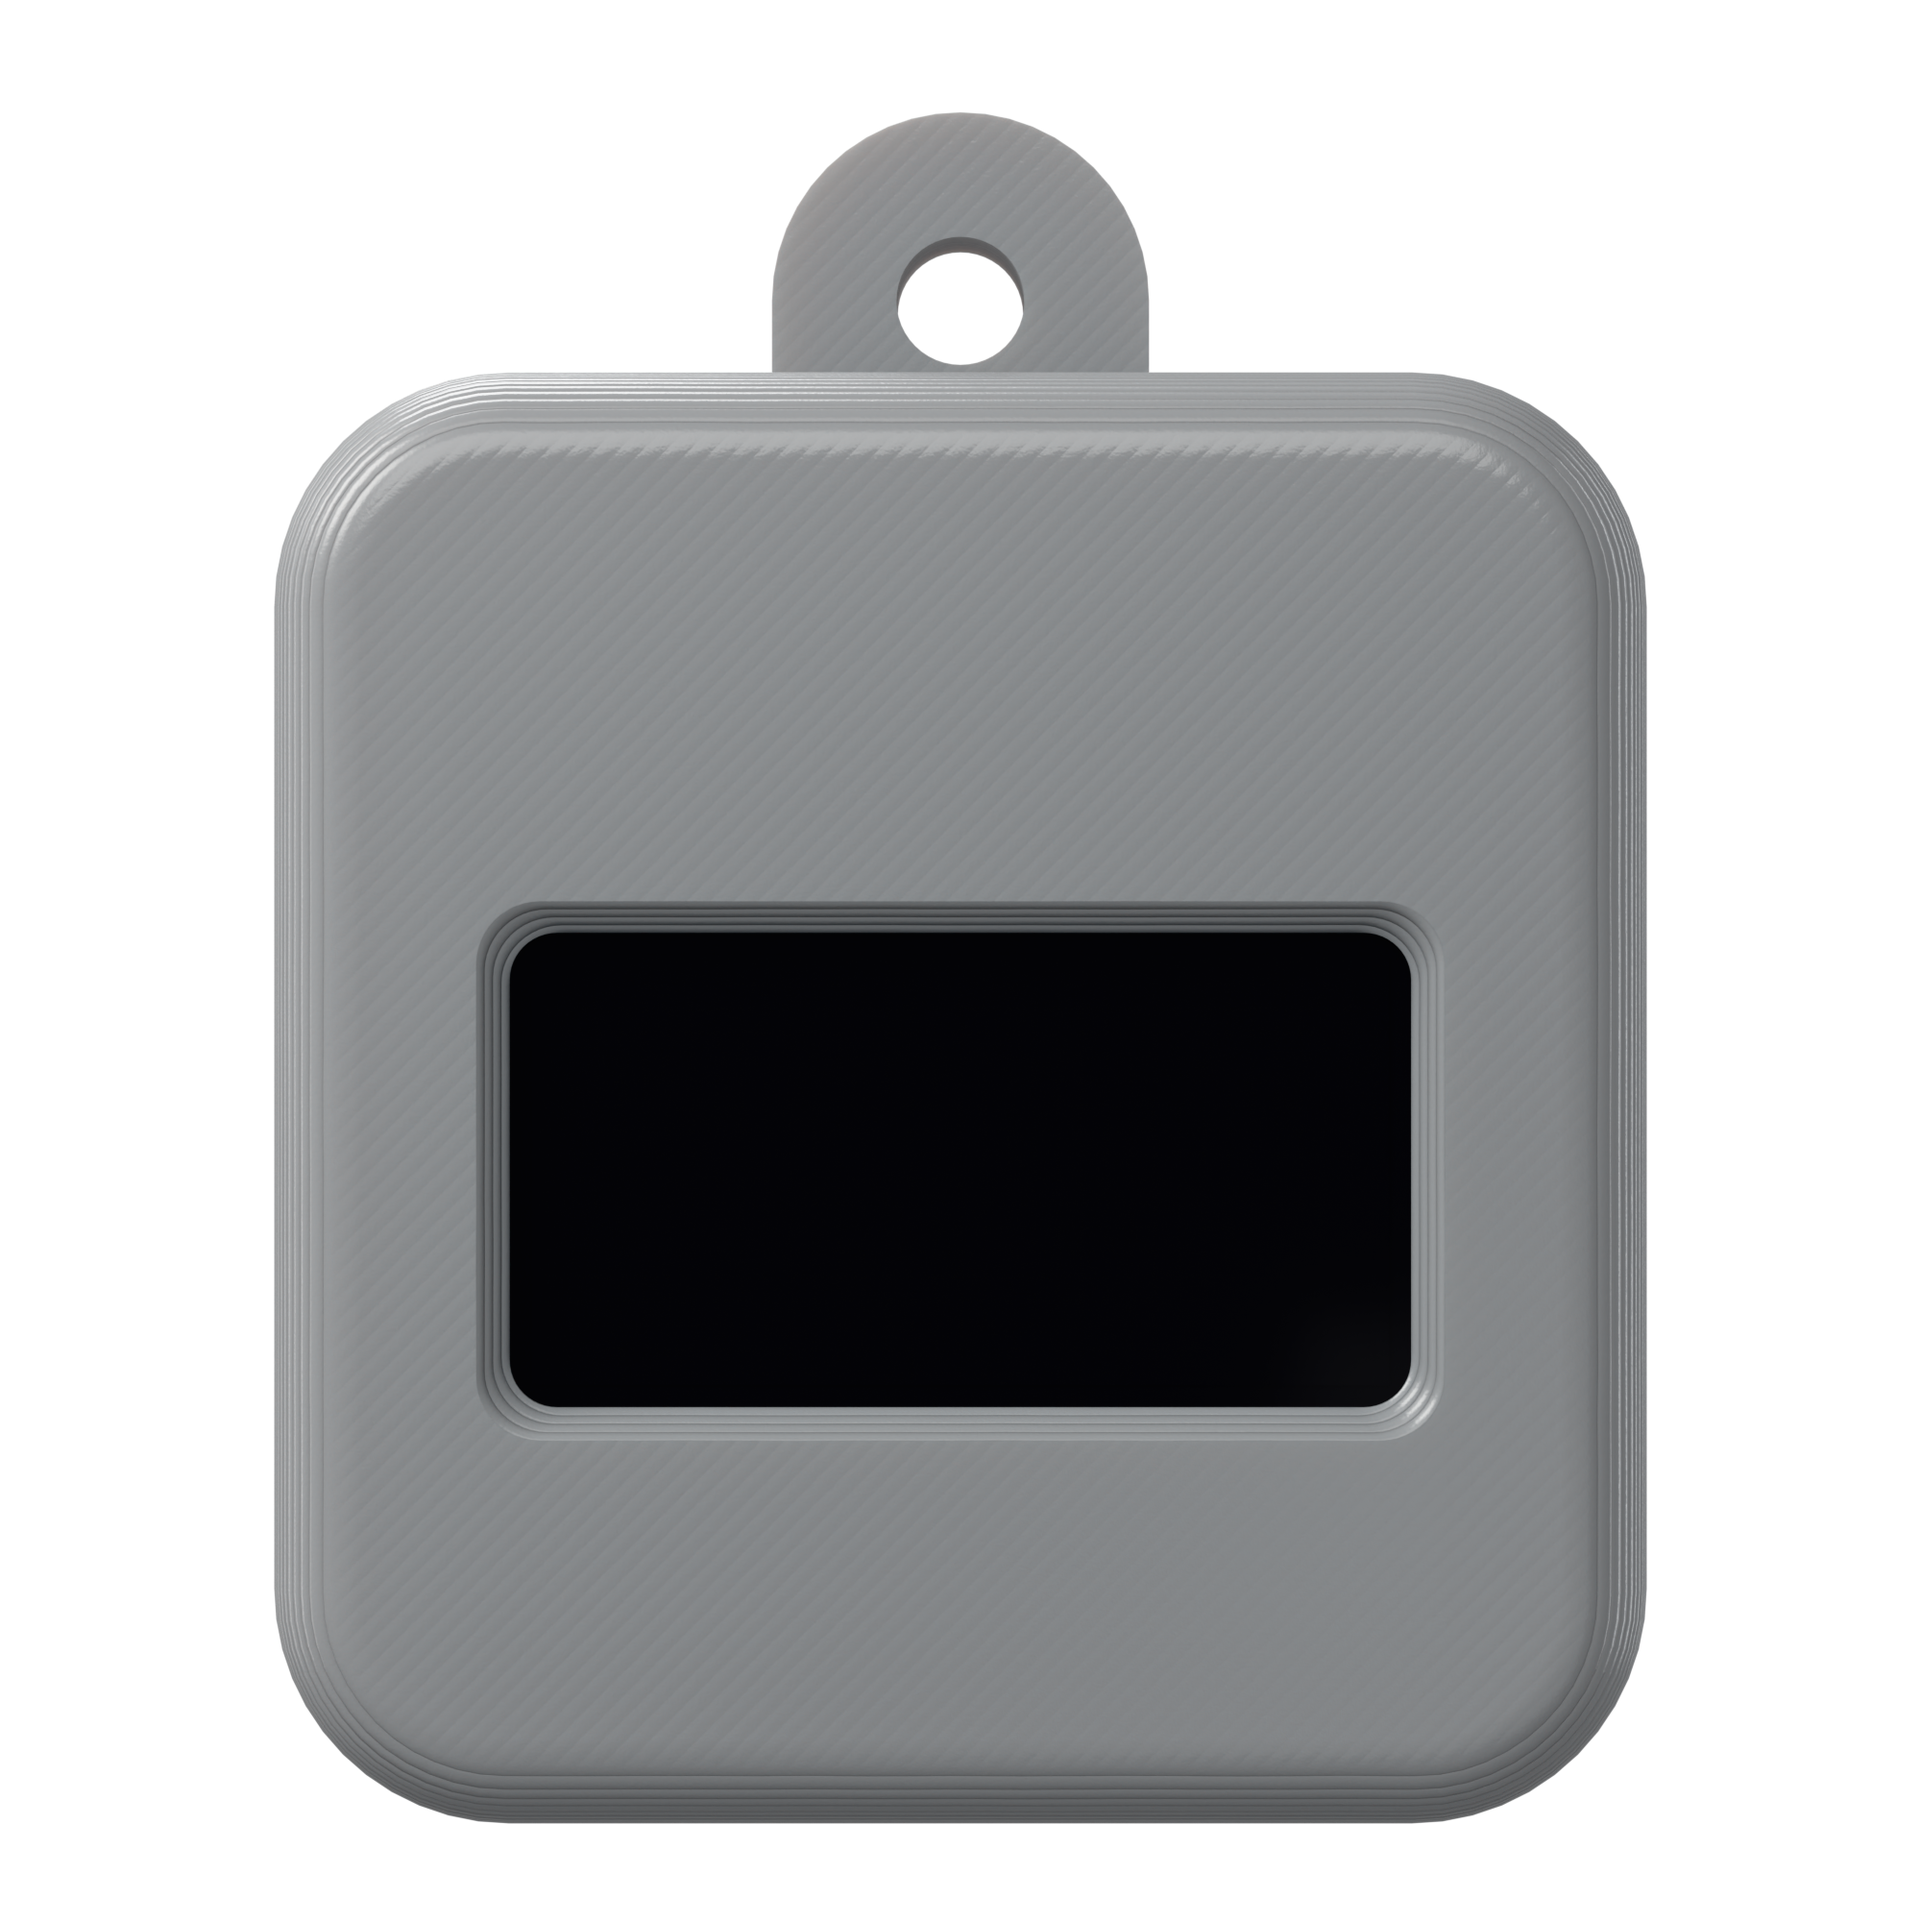
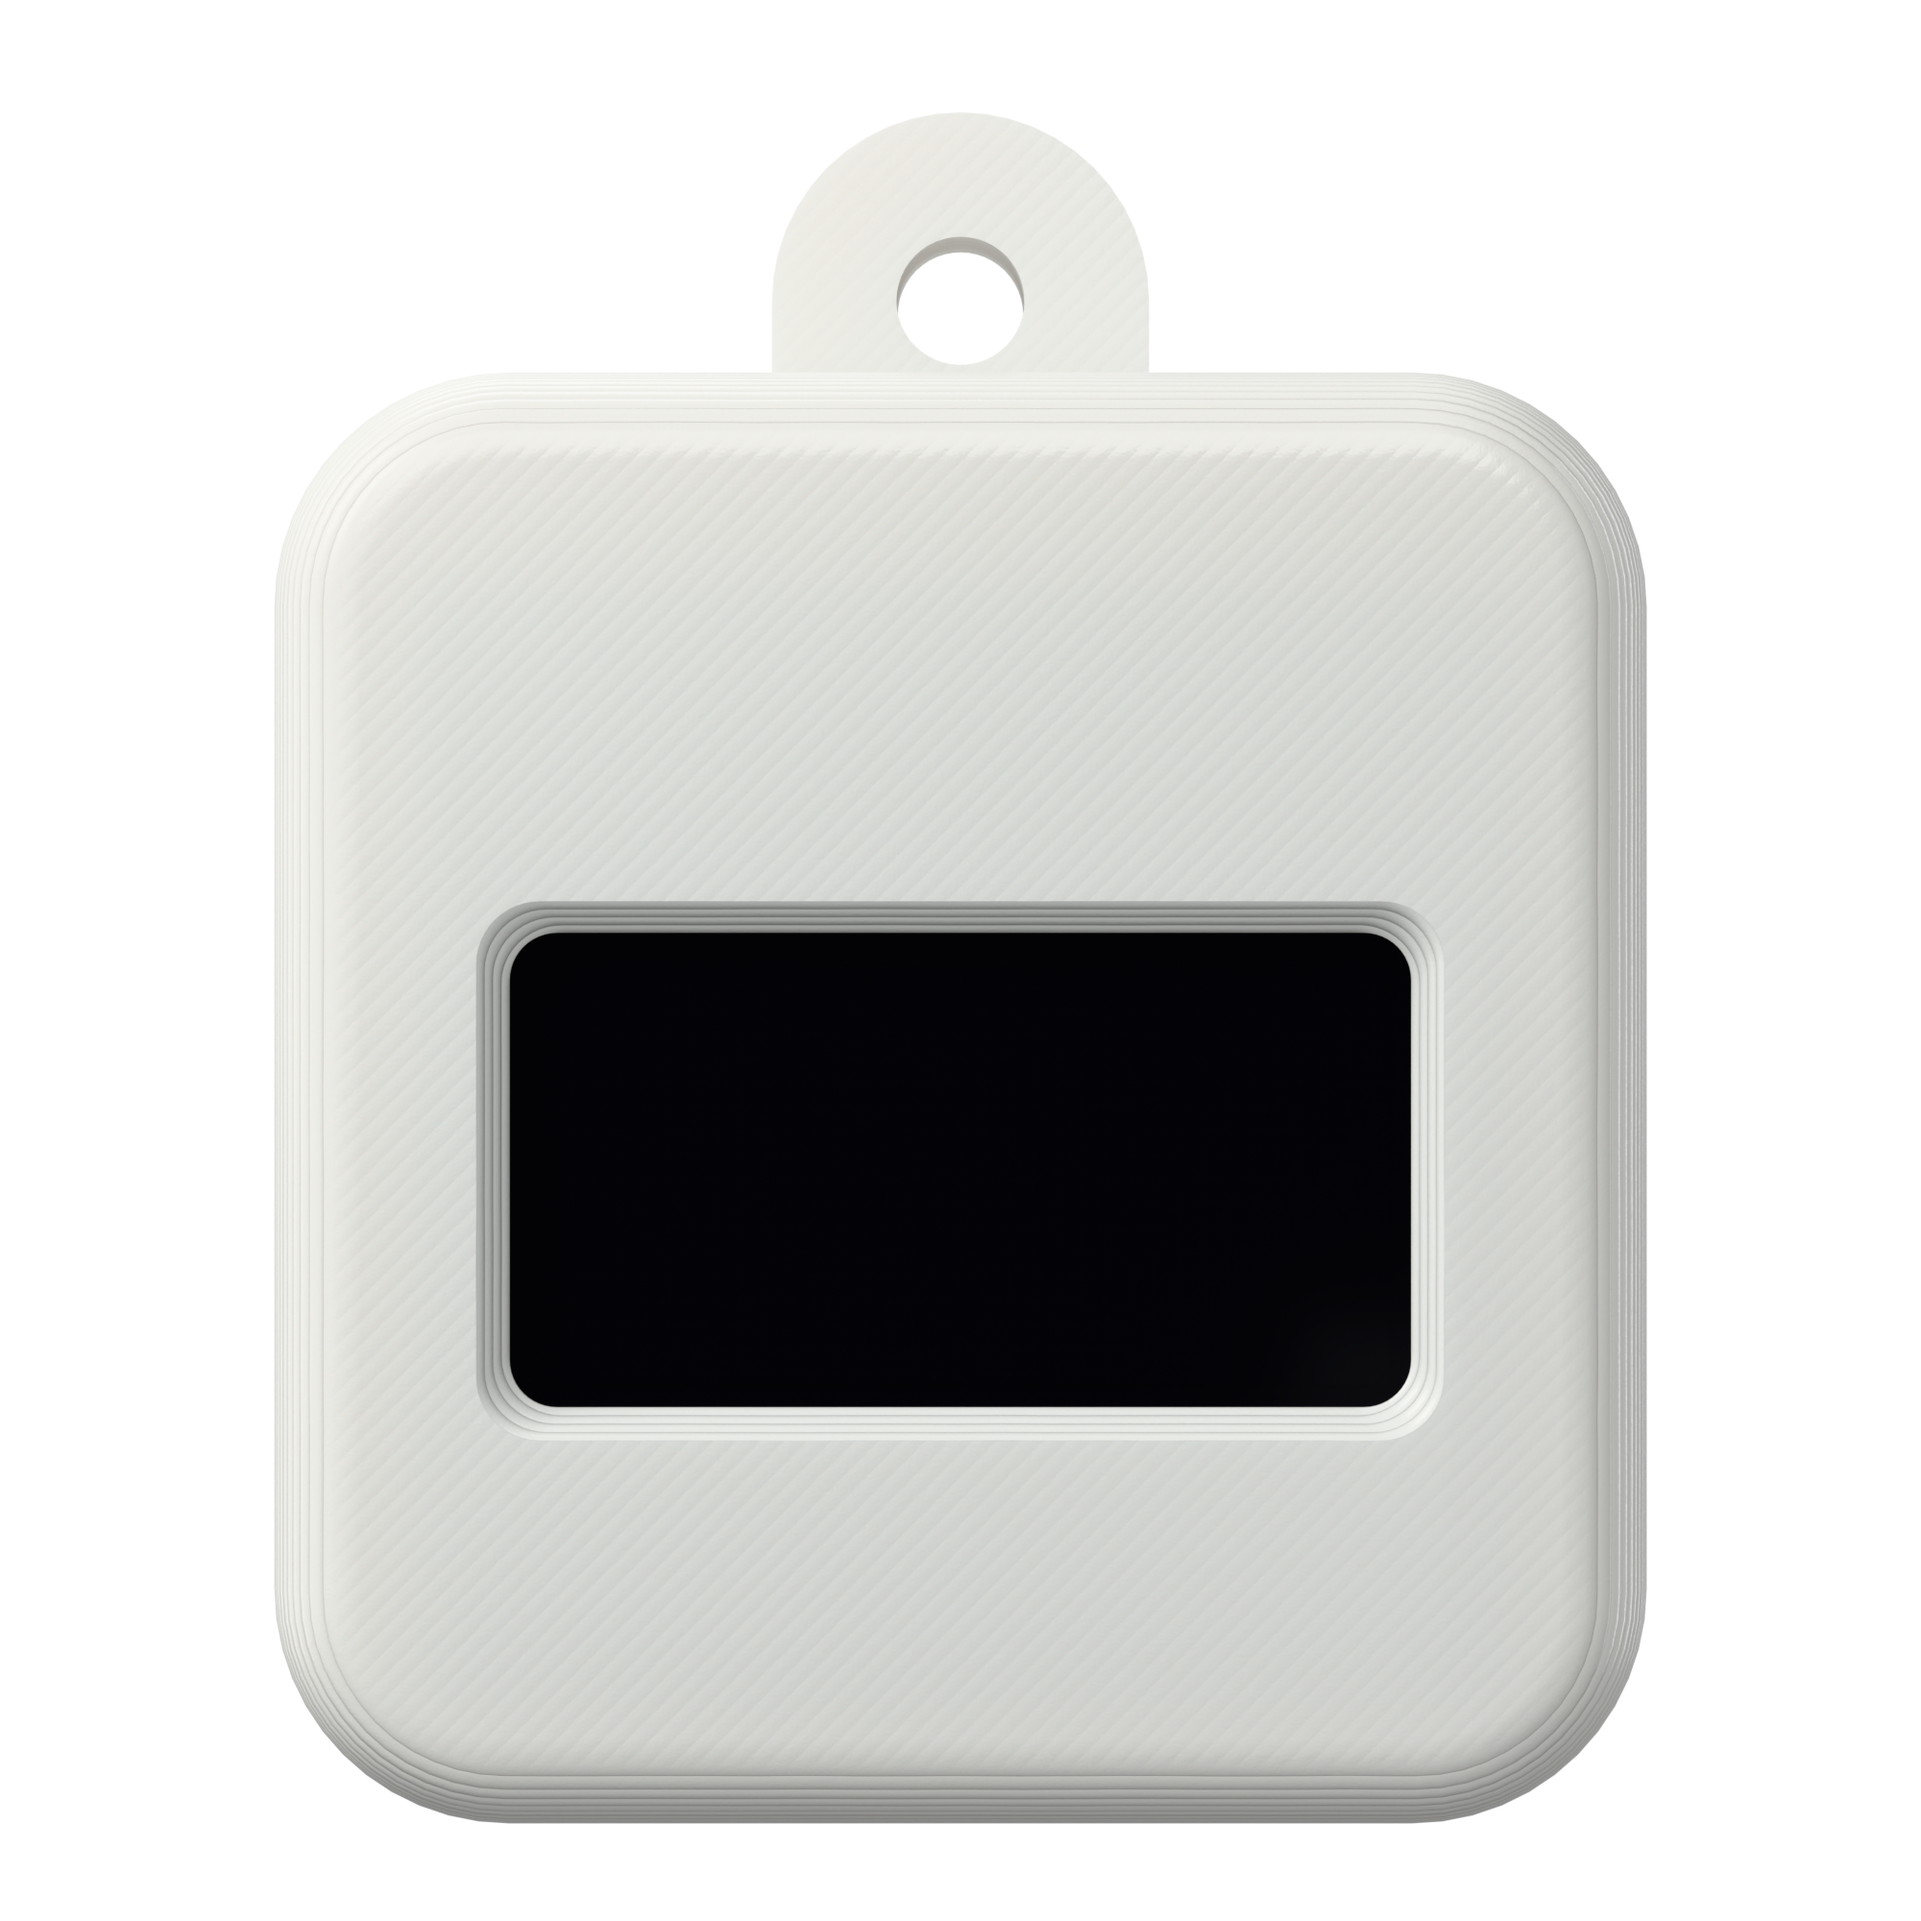
Light grey shell and no more pink Lumis on the site
- Grey is now a light, near-white grey (#dcddda), re-rendered, and named
  "Light grey" in the colour picker (the swatch gets a faint edge).
- The lavender side, USB and three-quarter shots are re-rendered in PETG:
  side and USB views and the keyring shot in light grey, the three-quarter
  (also the share image and launch card) in black. Mini Lumi 2 is light grey.
- The lavender, mint and peach concept renders are out of the gallery, the
  example cards and Boop Pong.
- Accessibility test waits for entrance fades before checking contrast.

Claude-Session: https://claude.ai/code/session_01NGZp68ebE8nq2zT4H5x4dy

diff --git a/web/src/content/products.ts b/web/src/content/products.ts
@@ -68,7 +68,6 @@ export interface Product {
 
 const render = (file: string, caption?: string): GalleryImage => ({ ...renderImage(file), caption });
 
-const CONCEPT = "Render of the prototype design. Shell colours aren't final.";
 const PETG = "Render in the PETG filament the prototypes are printed in.";
 const MILKY_GREEN = "Milky green limited edition. Render of the prototype design.";
 const MINI_PCB ="Mini Lumi case for the PCB: prototype design, not printed yet.";
@@ -90,28 +89,25 @@ export const products: Product[] = [
     ],
     price: tbc("Retail price in CAD"),
     variants: [
-      { id: "grey", name: "Grey", swatch: "#8e9194", image: 0 },
-      { id: "black", name: "Black", swatch: "#26272b", image: 2 },
+      { id: "grey", name: "Light grey", swatch: "#dcddda", image: 0 },
+      { id: "black", name: "Black", swatch: "#26272b", image: 4 },
       {
         id: "milky-green",
         name: "Milky green",
         swatch: "#b6dfc2",
-        image: 3,
+        image: 6,
         limited: "A small, one-off run in a soft, milky green. Once they're gone, they're gone.",
       },
     ],
     images: [
       render("front-grey.png", PETG),
       render("three-quarter-grey.png", PETG),
+      render("usb-side.png", PETG),
+      render("on-keyring.png", PETG),
       render("front-black.png", PETG),
+      render("three-quarter.png", PETG),
       render("front-milky-green.png", MILKY_GREEN),
       render("three-quarter-milky-green.png", MILKY_GREEN),
-      render("on-keyring.png", CONCEPT),
-      render("usb-side.png", CONCEPT),
-      render("front-lavender.png", CONCEPT),
-      render("three-quarter.png", CONCEPT),
-      render("front-mint.png", CONCEPT),
-      render("front-peach.png", CONCEPT),
       render("mini-pcb-front.png", MINI_PCB),
       render("mini-pcb-three-quarter.png", MINI_PCB),
       render("mini-pcb-usb.png", MINI_PCB),

diff --git a/web/tests/e2e/site.spec.ts b/web/tests/e2e/site.spec.ts
@@ -12,6 +12,10 @@ test("every page loads with no errors, no horizontal scroll and no accessibility
     await expect(page.locator("h1").first()).toBeVisible();
     const overflow = await page.evaluate(() => document.documentElement.scrollWidth - window.innerWidth);
     expect(overflow, `${path} overflows`).toBeLessThanOrEqual(0);
+    // Let entrance fades finish, or contrast is measured on half-transparent text. Looping animations never finish.
+    await page.waitForFunction(() =>
+      document.getAnimations().every((a) => a.playState !== "running" || a.effect?.getTiming().iterations === Infinity),
+    );
     const axe = await new AxeBuilder({ page }).withTags(["wcag2a", "wcag2aa", "wcag21aa"]).analyze();
     expect(axe.violations.map((v) => `${path}: ${v.id} (${v.nodes.length}) ${v.nodes[0]?.target}`)).toEqual([]);
   }

diff --git a/web/src/components/product/PurchasePanel.tsx b/web/src/components/product/PurchasePanel.tsx
@@ -59,7 +59,7 @@ export function PurchasePanel({
               <button key={x.id} type="button" onClick={() => setVariant(x.id)} aria-pressed={variant === x.id}
                 aria-label={x.limited ? `${x.name}, limited edition` : x.name} title={x.limited ? `${x.name} (limited edition)` : x.name}
                 className={clsx("relative size-10 rounded-full ring-2 ring-offset-2 ring-offset-cloud", variant === x.id ? "ring-ink" : "ring-transparent")}
-                style={{ background: x.swatch }}>
+                style={{ background: x.swatch, boxShadow: "inset 0 0 0 1px rgb(0 0 0 / 0.12)" }}>
                 {x.limited ? (
                   <span className="absolute -top-1 -right-1 grid size-4 place-items-center rounded-full bg-ink text-white" aria-hidden>
                     <Sparkles className="size-2.5" />

diff --git a/web/src/content/personas.ts b/web/src/content/personas.ts
@@ -22,7 +22,7 @@ export const personaStories: PersonaStory[] = [
   { id: "yotos", line: temperamentLine.cheerful!, shell: "lavender", render: "front-grey.png" },
   { id: "ni", line: temperamentLine.sleepy!, shell: "mint", render: "front-milky-green.png" },
   { id: "katos", line: temperamentLine.shy!, shell: "peach", render: "front-black.png" },
-  { id: "mimox", line: temperamentLine.hyper!, shell: "lavender", render: "front-lavender.png" },
+  { id: "mimox", line: temperamentLine.hyper!, shell: "lavender", render: "front-grey.png" },
 ];
 
 /** "Find your kind of Lumi": each emotion is a real firmware animation. */

diff --git a/web/src/components/pong/PongSection.tsx b/web/src/components/pong/PongSection.tsx
@@ -20,7 +20,7 @@ export function PongSection({ compact = false }: { compact?: boolean }) {
             </p>
           </div>
         </div>
-        <PongDuel you={renderImage("front-lavender.png")} pal={renderImage("front-mint.png")} />
+        <PongDuel you={renderImage("front-grey.png")} pal={renderImage("front-milky-green.png")} />
       </div>
     </section>
   );

diff --git a/web/scripts/render_products.py b/web/scripts/render_products.py
@@ -34,7 +34,7 @@ ENCLOSURE = os.path.join(WEB, "..", "hardware", "enclosure")
 
 LAVENDER, MINT, PEACH = "#c99be0", "#8fd6b6", "#ffb592"
 # The filament the prototypes are printed in (ELEGOO PETG), and a limited-edition milky green.
-GREY, BLACK, MILKY_GREEN = "#8e9194", "#26272b", "#b6dfc2"
+GREY, BLACK, MILKY_GREEN = "#dcddda", "#26272b", "#b6dfc2"
 
 # How each filament takes the light. PETG is glossier than PLA; milky filament lets light far inside.
 PLA = {"roughness": 0.36, "subsurface": 0.12, "subsurface_scale": 0.6}
@@ -70,16 +70,16 @@ SHOTS = [
     {"file": "front-lavender.png", "alt": "Pocket Lumi, front", "color": LAVENDER, "dist": 172, "look": 3.5, "exposure": 0.55, **FRONT},
     {"file": "front-mint.png", "alt": "Pocket Lumi in a mint shell, front", "color": MINT, "dist": 172, "look": 3.5, "exposure": 0.55, **FRONT},
     {"file": "front-peach.png", "alt": "Pocket Lumi in a peach shell, front", "color": PEACH, "dist": 172, "look": 3.5, "exposure": 0.55, **FRONT},
-    {"file": "three-quarter.png", "alt": "Pocket Lumi from the side, showing its face", "color": LAVENDER,
-     "yaw": -0.62, "rise": 0.2, "dist": 230, "look": 3, "face": ("yotos", "happy"), **SIDE},
-    {"file": "usb-side.png", "alt": "Pocket Lumi from the left, showing the USB-C port", "color": LAVENDER,
-     "yaw": 1.05, "rise": 0.18, "dist": 230, "look": 3, "face": ("yotos", "neutral"), "no_glare": True, **SIDE},
-    {"file": "on-keyring.png", "alt": "Pocket Lumi on a keyring", "color": MINT, "tall": True, "fov": 18,
+    {"file": "three-quarter.png", "alt": "Pocket Lumi in black PETG from the side, showing its face", "color": BLACK,
+     "finish": PETG, "yaw": -0.62, "rise": 0.2, "dist": 230, "look": 3, "face": ("yotos", "happy"), **SIDE},
+    {"file": "usb-side.png", "alt": "Pocket Lumi from the left, showing the USB-C port", "color": GREY,
+     "finish": PETG, "yaw": 1.05, "rise": 0.18, "dist": 230, "look": 3, "face": ("yotos", "neutral"), "no_glare": True, **SIDE},
+    {"file": "on-keyring.png", "alt": "Pocket Lumi on a keyring", "color": GREY, "finish": PETG, "tall": True, "fov": 18,
      "yaw": -0.35, "rise": 0.05, "dist": 260, "look": 10, "ring": True, "face": ("ni", "sleepy")},
     # The real filament, and the limited edition.
-    {"file": "front-grey.png", "alt": "Pocket Lumi in grey PETG, front", "color": GREY, "finish": PETG,
+    {"file": "front-grey.png", "alt": "Pocket Lumi in light grey PETG, front", "color": GREY, "finish": PETG,
      "dist": 172, "look": 3.5, "exposure": 0.55, **FRONT},
-    {"file": "three-quarter-grey.png", "alt": "Pocket Lumi in grey PETG, from the side", "color": GREY, "finish": PETG,
+    {"file": "three-quarter-grey.png", "alt": "Pocket Lumi in light grey PETG, from the side", "color": GREY, "finish": PETG,
      "yaw": -0.62, "rise": 0.2, "dist": 230, "look": 3, "face": ("ni", "happy"), **SIDE},
     {"file": "front-black.png", "alt": "Pocket Lumi in black PETG, front", "color": BLACK, "finish": PETG,
      "dist": 172, "look": 3.5, "exposure": 0.55, **FRONT},
@@ -97,9 +97,9 @@ SHOTS = [
      "color": MINT, "yaw": -0.62, "rise": 0.2, "dist": 250, "look": 3, "face": ("yotos", "happy"), **SIDE},
     {"model": "mini-pcb", "file": "mini-pcb-usb.png", "alt": "Mini Lumi case for the PCB from the left, showing the USB-C port",
      "color": MINT, "yaw": 1.05, "rise": 0.18, "dist": 250, "look": 3, "face": ("ni", "neutral"), "no_glare": True, **SIDE},
-    {"model": "mini2", "file": "mini-lumi2-front.png", "alt": "Mini Lumi 2 case, front", "color": PEACH,
+    {"model": "mini2", "file": "mini-lumi2-front.png", "alt": "Mini Lumi 2 case, front", "color": GREY,
      "dist": 190, "look": 0, "exposure": 0.3, "no_glare": True, **FRONT},
-    {"model": "mini2", "file": "mini-lumi2-three-quarter.png", "alt": "Mini Lumi 2 case, from the side", "color": PEACH,
+    {"model": "mini2", "file": "mini-lumi2-three-quarter.png", "alt": "Mini Lumi 2 case, from the side", "color": GREY,
      "yaw": -0.62, "rise": 0.2, "dist": 250, "look": 0, "face": ("katos", "happy"), **SIDE},
 ]
 
